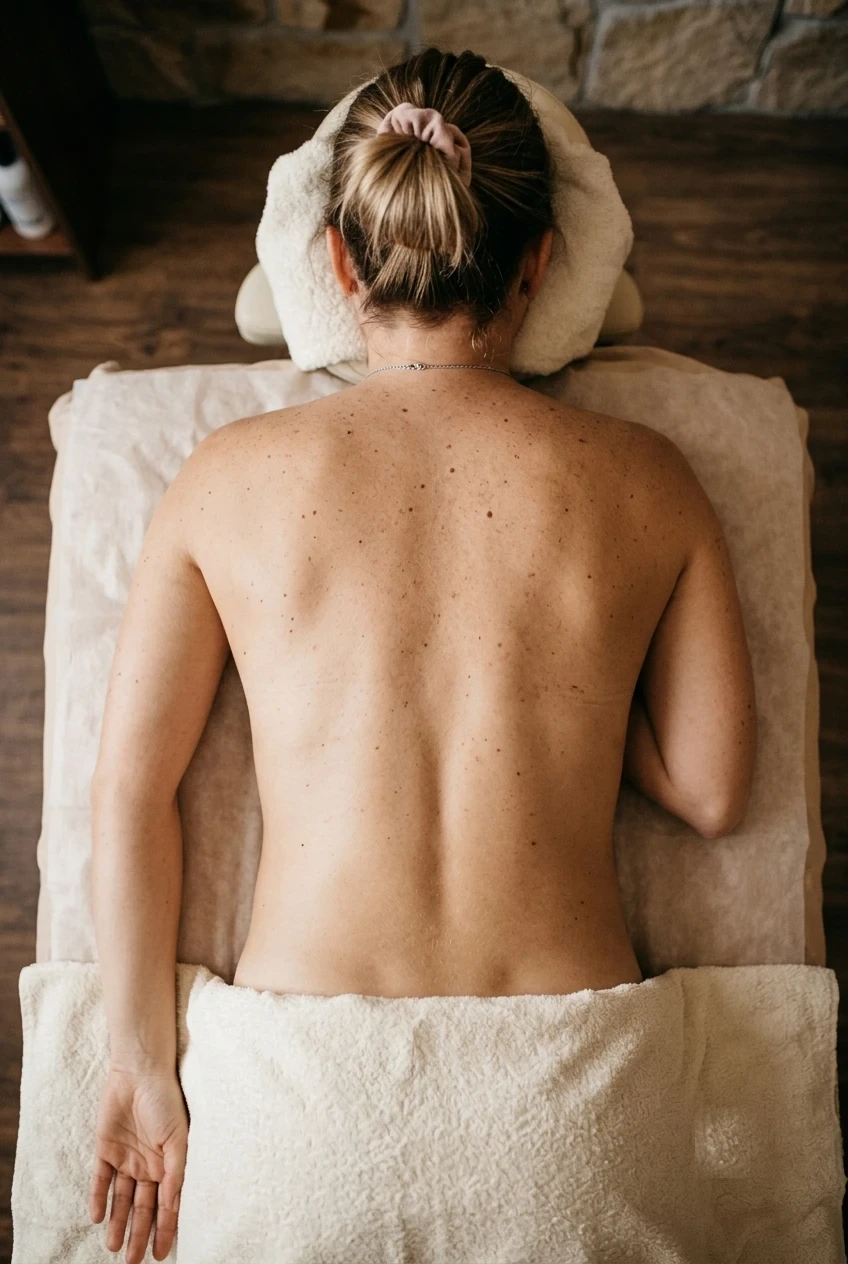
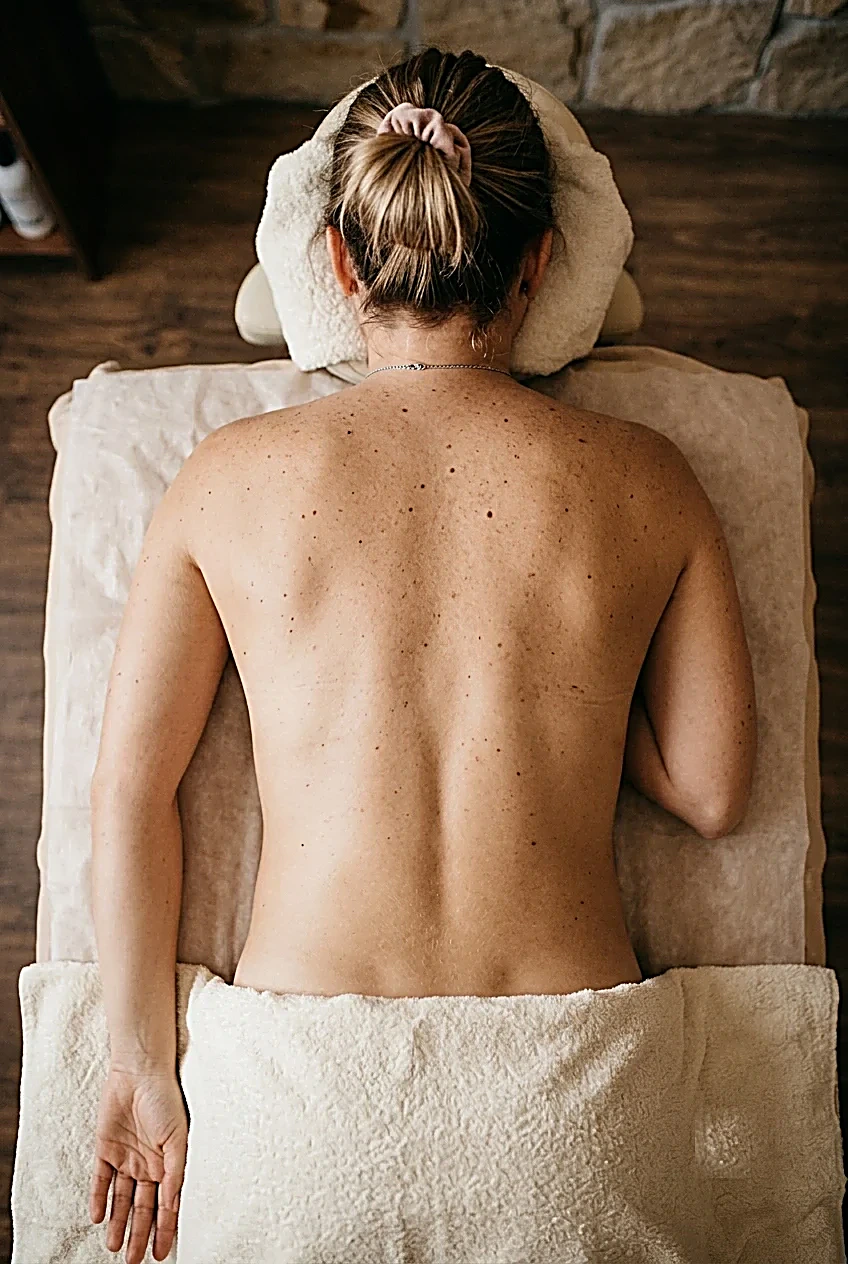
Sharpen hero photo and slow down the hand animation so it holds on the back longer

diff --git a/js/script.js b/js/script.js
@@ -5,8 +5,12 @@
   var scrollHint = document.getElementById('scrollHint');
   var siteNav = document.getElementById('siteNav');
 
-  var START_Y = 72; // vh, hands start below the viewport
-  var END_Y = -18;  // vh, hands end above the viewport (near shoulders)
+  var START_Y = 72;  // vh, hands start below the viewport
+  var END_Y = -12;   // vh, resting position on the upper back/shoulders
+
+  var ARRIVE_END = 0.35; // 0-35% of scroll: hands travel up onto the back
+  var HOLD_END = 0.75;   // 35-75%: hands stay put, fully visible
+  // 75-100%: hands fade out as the page hands off to the main content
 
   function clamp(value, min, max) {
     return Math.min(max, Math.max(min, value));
@@ -19,9 +23,10 @@
     var scrolledInto = -heroWrapper.getBoundingClientRect().top;
     var progress = scrollable > 0 ? clamp(scrolledInto / scrollable, 0, 1) : 0;
 
-    var y = START_Y + (END_Y - START_Y) * progress;
-    var scale = 1.05 - 0.18 * progress;
-    var handsOpacity = progress > 0.82 ? clamp(1 - (progress - 0.82) / 0.18, 0, 1) : 1;
+    var arriveT = clamp(progress / ARRIVE_END, 0, 1);
+    var y = START_Y + (END_Y - START_Y) * arriveT;
+    var scale = 1.05 - 0.18 * arriveT;
+    var handsOpacity = progress > HOLD_END ? clamp(1 - (progress - HOLD_END) / (1 - HOLD_END), 0, 1) : 1;
 
     hands.style.transform = 'translate(-50%, ' + y + 'vh) scale(' + scale + ')';
     hands.style.opacity = handsOpacity;
